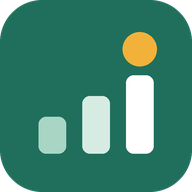
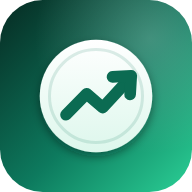
Ícono nuevo de Finanzas y mejoras de la auditoría (v5.1)
- Ícono propio: moneda con flecha de crecimiento sobre degradado verde.
  Tamaños web, accesos directos y, para Android, ícono adaptativo con
  versión monocromática y pantalla de arranque con el ícono (ya no
  depende de @capacitor/assets, que dejaba el logo de Capacitor).
- APK: solo se publica desde main y sin respaldo en la nube del
  celular (allowBackup=false).
- Seguridad: política CSP (solo archivos propios y Apps Script), las
  descripciones y nombres que empiezan con = + @ se guardan como texto
  (no como fórmula) y el CSV exportado se protege igual; por GET el
  Apps Script ya no devuelve datos.
- Accesibilidad: contraste de al menos 4.5:1 en el héroe, botones y
  plásticos; lo de atrás queda inerte con una hoja o el candado abiertos.
- Modo discreto (ojo en la barra) para tapar montos.
- Aviso antes de guardar un monto muy grande o un gasto repetido.
- Búsqueda sin acentos, exportar CSV y respaldo JSON, enlace a tu hoja,
  acceso directo a Metas y guía actualizada.

Claude-Session: https://claude.ai/code/session_01Xj5PdfSkH3YGkcur5ekCGh

diff --git a/app.js b/app.js
@@ -17,6 +17,8 @@ function hoy() { return claveDia(new Date()); }
 function sumarDias(k, n) { const d = new Date(k + 'T12:00:00'); d.setDate(d.getDate() + n); return claveDia(d); }
 function difDias(a, b) { return Math.round((new Date(b + 'T12:00:00') - new Date(a + 'T12:00:00')) / 86400000); }
 function uid() { return Date.now().toString(36) + Math.random().toString(36).slice(2, 7); }
+// "Pagué" y "pague" encuentran lo mismo
+function sinAcentos(t) { return String(t || '').toLowerCase().normalize('NFD').replace(/[\u0300-\u036f]/g, ''); }
 function esc(s) { return String(s == null ? '' : s).replace(/[&<>"']/g, c => ({ '&': '&amp;', '<': '&lt;', '>': '&gt;', '"': '&quot;', "'": '&#39;' }[c])); }
 function jsq(s) { return esc(String(s).replace(/\\/g, '\\\\').replace(/'/g, "\\'")); }
 const r2 = n => Math.round(n * 100) / 100;
@@ -131,7 +133,7 @@ const ARROW_L = '<svg width="22" height="22" viewBox="0 0 24 24" fill="none" str
 const ARROW_R = '<svg width="22" height="22" viewBox="0 0 24 24" fill="none" stroke="currentColor" stroke-width="2.4" stroke-linecap="round" stroke-linejoin="round" aria-hidden="true"><path d="M9 6l6 6-6 6"/></svg>';
 
 /* ===================== Estado ===================== */
-const VERSION_APP = '5.0';
+const VERSION_APP = '5.1';
 let API = LS.get('fin_api', ''), KEY = LS.get('fin_key', ''), DEMO = LS.get('fin_demo', false);
 let BASE = null;      // lo último que mandó la hoja
 let DATA = null;      // BASE + cambios que aún no se suben
@@ -538,6 +540,7 @@ function arrancar() {
   ponerGuardia();
   window.addEventListener('popstate', alIrAtras);
   aplicarTema(LS.get('fin_tema', 'auto'));
+  aplicarDiscreto();
   try { matchMedia('(prefers-color-scheme: dark)').addEventListener('change', () => aplicarTema(LS.get('fin_tema', 'auto'))); } catch (e) {}
   if ('serviceWorker' in navigator && location.protocol === 'https:') {
     const tenia = !!navigator.serviceWorker.controller;
@@ -590,6 +593,7 @@ function ejecutarAccion() {
   if (a === 'gasto') abrirRegistro({});
   else if (a === 'pagar') { const pl = planDeuda(abonoMensual()); abrirRegistro({ tipo: 'Traspaso', aCuenta: pl.orden[0] ? pl.orden[0].c.nombre : null }); }
   else if (a === 'cuadrar') irA('Cuentas');
+  else if (a === 'metas') abrirMeta();
 }
 function mostrarSetup() {
   $('loading').classList.add('hide'); $('view').innerHTML = ''; $('nav').classList.add('hide');
@@ -914,9 +918,9 @@ function vistaMovs() {
     '<div id="lista">' + listaMovs() + '</div>';
 }
 function listaMovs() {
-  const q = BUSCA.trim().toLowerCase(), tipos = FILTROS[FILTRO];
+  const q = sinAcentos(BUSCA.trim()), tipos = FILTROS[FILTRO];
   const lista = DATA.movs.filter(m => (q || m.fecha.slice(0, 7) === MES) && (!tipos || tipos.indexOf(m.tipo) >= 0) &&
-    (!q || [m.desc, m.categoria, m.cuenta, m.aCuenta, m.persona, m.tipo, String(m.monto)].join(' ').toLowerCase().includes(q))).sort(ordenMov);
+    (!q || sinAcentos([m.desc, m.categoria, m.cuenta, m.aCuenta, m.persona, m.tipo, String(m.monto)].join(' ')).includes(q))).sort(ordenMov);
   if (!lista.length) return '<div class="list" style="margin-top:12px"><div class="empty">' + (q ? 'No encontré "' + esc(BUSCA.trim()) + '" en ningún mes.' : FILTRO !== 'Todos' ? 'Nada de este tipo en ' + nombreMes(MES) + '.' : 'Sin movimientos en ' + nombreMes(MES) + '.') + '</div></div>';
   let h = q ? '<div class="muted" style="margin:10px 2px 0">' + lista.length + ' resultado' + (lista.length === 1 ? '' : 's') + ' en todos los meses</div>' : '';
   const dias = {};
@@ -1210,7 +1214,9 @@ const GUIA = [
   ['💳', 'Gasto, Traspaso o Personas', '<b>Gasto</b>: compraste algo (con débito, efectivo o tarjeta).<br><b>Traspaso</b>: pagaste una tarjeta o moviste dinero entre cuentas; no es gasto.<br><b>Personas</b>: le prestaste a alguien, te pagó, o tú debes.'],
   ['🧾', 'Reembolsos y gastos divididos', 'Si pagaste por varios, activa <b>Dividir con otros</b>: tu parte es gasto y lo demás queda como "te deben". Si alguien te devuelve lo de algo, es <b>Ingreso → Es un reembolso</b>.'],
   ['⚖', 'Cuadra cada domingo', 'En Cuentas toca una cuenta → <b>Cuadrar</b> y escribe lo que dice tu banco. Así nunca vuelves a perder la pista como de junio a septiembre.'],
-  ['📅', 'Tu quincena y tu deuda', 'Cuando registres tu quincena, Inicio te dice cuánto va a gastos y cuánto a deudas. En Análisis ves a dónde se va tu dinero mes con mes.']
+  ['📅', 'Tu quincena y tu deuda', 'Cuando registres tu quincena, Inicio te dice cuánto va a gastos y cuánto a deudas. En Análisis ves a dónde se va tu dinero mes con mes.'],
+  ['🏦', 'Tu BBVA Oro y los meses sin intereses', 'Los gastos salen con tu Oro para aprovechar hasta ~50 días de financiamiento. Si compras a meses, activa <b>A meses sin intereses</b>: al estado de cuenta solo entra la mensualidad. En Inicio ves cuánto pagar para no generar intereses.'],
+  ['🎯', 'Metas y proyección', 'Crea una <b>meta</b> para lo que quieres comprar y aparta cada quincena. En <b>Análisis → Categorías</b> ves en qué se fue tu dinero y la proyección te dice cómo vas a terminar el mes. El ojo de arriba oculta los montos.']
 ];
 function abrirGuia() { FORM = { vista: 'guia', paso: 0 }; abrirHoja(); pintarHoja(); enfocarTitulo(); }
 function hojaGuia() {
@@ -1228,11 +1234,14 @@ function abrirHoja() {
   if (!yaAbierta) {
     history.pushState({ hoja: true }, '');
     s.classList.remove('hide'); sc.classList.remove('hide');
+    fondoInerte(true);
     requestAnimationFrame(() => { s.classList.add('show'); sc.classList.add('show'); });
     document.body.style.overflow = 'hidden';
   }
   s.scrollTop = 0;
 }
+// Con una hoja o el candado abiertos, el lector de pantalla y el tabulador no se van a lo de atrás
+function fondoInerte(si) { ['.appbar', 'main', '#nav'].forEach(q => { const e = document.querySelector(q); if (e) e.inert = si; }); }
 // Cerrar desde un botón: regresa en el historial para que el botón Atrás de Android no saque de la app
 function cerrarHoja() { if (history.state && history.state.hoja) history.back(); else cerrarHojaReal(); }
 function cerrarHojaReal() {
@@ -1242,6 +1251,7 @@ function cerrarHojaReal() {
   const s = $('sheet'), sc = $('scrim');
   s.classList.remove('show'); sc.classList.remove('show'); s.style.transform = '';
   document.body.style.overflow = '';
+  fondoInerte(false);
   setTimeout(() => { if (!FORM) { s.classList.add('hide'); sc.classList.add('hide'); s.innerHTML = ''; } }, 260);
 }
 function pintarHoja() {
@@ -1528,7 +1538,13 @@ function guardarMovForm() {
     : (t === 'Gasto' || t === 'Ingreso' || t === 'Reembolso') && !FORM.categoria ? 'Elige una categoría.'
     : usaMSI() && !FORM.meses ? 'Elige a cuántos meses sin intereses.' : '';
   if (falta) { FORM.err = falta; pintarHoja(); vibrar([20, 40, 20]); return; }
-  const nuevo = !FORM.id;
+  const nuevo = !FORM.id, firma = t + '|' + monto + '|' + FORM.cuenta + '|' + FORM.fecha;
+  if (FORM.confirmado !== firma) {
+    const igual = nuevo && DATA.movs.find(m => m.tipo === t && m.monto === monto && m.cuenta === FORM.cuenta && m.fecha === FORM.fecha && Date.now() - (m.registrado || 0) < 15 * 60000);
+    const aviso = monto >= 50000 && t !== 'Ajuste' ? '¿Seguro que fueron ' + money(monto) + '? Revisa que no sobre un cero. Toca Guardar otra vez para confirmar.'
+      : igual ? 'Hace ' + Math.max(1, Math.round((Date.now() - igual.registrado) / 60000)) + ' min registraste lo mismo (' + money(monto) + ' con ' + FORM.cuenta + '). Si es otro, toca Guardar otra vez.' : '';
+    if (aviso) { FORM.confirmado = firma; FORM.err = aviso; pintarHoja(); vibrar([20, 40, 20]); return; }
+  }
   if (nuevaPersona) encolar('guardarPersona', [{ nombre: nuevaPersona, saldoCorte: 0, fechaCorte: minCorte() || hoy(), nota: '' }], true);
   if (t === 'Gasto' && nuevo && FORM.dividir && !usaMSI()) {
     const pr = partesDividir(monto);
@@ -1979,10 +1995,10 @@ let OCULTA_DESDE = 0;
 const bloqueoOn = () => NATIVO && LS.get('fin_huella', false);
 async function pedirHuella() {
   if (!bloqueoOn()) { $('lock').classList.add('hide'); return; }
-  $('lock').classList.remove('hide');
+  $('lock').classList.remove('hide'); fondoInerte(true);
   try {
     await window.Capacitor.nativePromise('NativeBiometric', 'verifyIdentity', { reason: 'Abrir Finanzas', title: 'Finanzas', subtitle: 'Usa tu huella para entrar', negativeButtonText: 'Cancelar', maxAttempts: 5 });
-    $('lock').classList.add('hide'); vibrar(12);
+    $('lock').classList.add('hide'); fondoInerte(!!FORM); vibrar(12);
   } catch (e) { /* se queda bloqueada; el botón vuelve a pedirla */ }
 }
 async function alternarHuella() {
@@ -1996,6 +2012,34 @@ async function alternarHuella() {
   } catch (e) { toast('No se activó el bloqueo'); }
   if (ok) { LS.set('fin_huella', true); toast('Listo: Finanzas pedirá tu huella al abrir'); }
   pintarHoja();
+}
+
+/* ---- Modo discreto: tapa los montos para usar la app en público o enseñar la pantalla ---- */
+function aplicarDiscreto() {
+  const on = LS.get('fin_discreto', false), b = $('ojo');
+  document.body.classList.toggle('discreto', on);
+  if (b) { b.setAttribute('aria-pressed', on); b.setAttribute('aria-label', on ? 'Mostrar montos' : 'Ocultar montos'); }
+}
+function alternarDiscreto() { LS.set('fin_discreto', !LS.get('fin_discreto', false)); aplicarDiscreto(); vibrar(8); toast(LS.get('fin_discreto', false) ? 'Montos ocultos' : 'Montos visibles'); }
+
+/* ---- Respaldo: todo vive en tu hoja de Google; además puedes bajar un CSV o una copia completa ---- */
+// Una celda que empieza con = + - @ se volvería fórmula al abrir el CSV en Excel o Sheets: se le antepone un apóstrofo
+const celdaCSV = v => { let t = v == null ? '' : String(v); if (/^[=+\-@]/.test(t) && !/^-?\d+(\.\d+)?$/.test(t)) t = "'" + t; return /[",\n;]/.test(t) ? '"' + t.replace(/"/g, '""') + '"' : t; };
+function descargar(nombre, tipo, contenido) {
+  const url = URL.createObjectURL(new Blob([contenido], { type: tipo })), a = document.createElement('a');
+  a.href = url; a.download = nombre; document.body.appendChild(a); a.click(); a.remove();
+  setTimeout(() => URL.revokeObjectURL(url), 4000);
+}
+function exportarCSV() {
+  const cols = ['fecha', 'tipo', 'monto', 'cuenta', 'aCuenta', 'categoria', 'persona', 'desc', 'meses'];
+  const filas = DATA.movs.slice().sort((a, b) => (a.fecha < b.fecha ? -1 : 1)).map(m => cols.map(k => celdaCSV(m[k])).join(','));
+  descargar('finanzas-movimientos-' + hoy() + '.csv', 'text/csv;charset=utf-8', '\ufeff' + ['Fecha,Tipo,Monto,Cuenta,A cuenta,Categoría,Persona,Descripción,Meses'].concat(filas).join('\n'));
+  toast('Descargué ' + DATA.movs.length + ' movimientos');
+}
+function exportarRespaldo() {
+  const copia = Object.assign({}, DATA, { exportado: new Date().toISOString(), app: VERSION_APP });
+  descargar('finanzas-respaldo-' + hoy() + '.json', 'application/json', JSON.stringify(copia, null, 1));
+  toast('Respaldo descargado');
 }
 
 /* ---- Ajustes ---- */
@@ -2030,6 +2074,9 @@ function hojaAjustes() {
       '<div class="actions"><a class="btn sm" href="' + APK_URL + '" target="_blank" rel="noopener">Descargar APK</a>' + (!DEMO ? '<button class="btn sm ghost" onclick="copiarLinkApp()">Copiar link para la app</button>' : '') + '</div>' +
       '<p class="hint">Abre la app, pega el link en "URL de Apps Script" y listo: no tienes que escribir la clave.</p></div>';
   }
+  h += '<div class="fl">Tus datos</div><div class="card flat"><div class="muted" style="margin-bottom:10px">Todo se guarda en tu hoja de Google; lo del celular es una copia para que funcione sin señal.</div><div class="actions">' +
+    (BASE && BASE.url ? '<a class="btn sm" href="' + esc(BASE.url) + '" target="_blank" rel="noopener">Abrir mi hoja</a>' : '') +
+    (!NATIVO ? '<button class="btn sm ghost" onclick="exportarCSV()">Bajar CSV</button><button class="btn sm ghost" onclick="exportarRespaldo()">Bajar respaldo</button>' : '') + '</div></div>';
   const ver = BASE && BASE.version ? BASE.version : 1;
   h += '<div class="fl">Conexión</div><div class="card flat"><div class="muted">' + (DEMO ? 'Estás en modo ejemplo: nada se guarda en tu hoja.' :
     'Conectada a ' + esc(BASE && BASE.hoja ? BASE.hoja : 'tu hoja de Google') + '. Última actualización: ' + haceCuanto(LS.get('fin_ultima', 0)) + '.') + '</div>' +

diff --git a/index.html b/index.html
@@ -9,9 +9,11 @@
 <meta name="apple-mobile-web-app-status-bar-style" content="black-translucent">
 <meta name="apple-mobile-web-app-title" content="Finanzas">
 <meta name="referrer" content="no-referrer">
+<meta http-equiv="Content-Security-Policy" content="default-src 'self'; script-src 'self' 'unsafe-inline'; style-src 'self' 'unsafe-inline'; img-src 'self' data: blob:; font-src 'self'; connect-src 'self' https://script.google.com https://script.googleusercontent.com; manifest-src 'self'; worker-src 'self'; object-src 'none'; base-uri 'none'; form-action 'none'; frame-src 'none'">
 <title>Finanzas</title>
 <link rel="manifest" href="manifest.webmanifest">
-<link rel="icon" href="icon-192.png">
+<link rel="icon" href="favicon-32.png" sizes="32x32">
+<link rel="icon" href="icon-192.png" sizes="192x192">
 <link rel="apple-touch-icon" href="apple-touch-icon.png">
 <link rel="preload" href="bricolage.woff2" as="font" type="font/woff2" crossorigin>
 <link rel="preload" href="fonts/inter.woff2" as="font" type="font/woff2" crossorigin>
@@ -23,9 +25,9 @@
   /* Tema claro */
   :root {
     --bg: #F1F5F3; --card: #FFFFFF; --card2: #EBF1EE; --ink: #0E1A16; --muted: #56665F; --line: #DCE5E1;
-    --pri: #0D7A5E; --pri-2: #13A57E; --pri-weak: #DAF2E8; --on-pri: #FFFFFF;
+    --pri: #0D7A5E; --pri-2: #0E8462; --pri-weak: #DAF2E8; --on-pri: #FFFFFF;
     --debt: #CF3F2A; --debt-weak: #FCE7E2; --sun: #92600A; --sun-bar: #E9A21F; --sun-weak: #FCF1D8; --ok: #11804F;
-    --hero: linear-gradient(145deg, #093F33 0%, #0D7A5E 48%, #1BB384 100%); --glow: rgba(13, 122, 94, .30);
+    --hero: linear-gradient(145deg, #093F33 0%, #0D7A5E 55%, #0E8462 100%); --glow: rgba(13, 122, 94, .30);
     --nav-bg: rgba(255, 255, 255, .86); --sheet: #F6F9F7;
     --shadow: 0 1px 2px rgba(15, 45, 35, .05), 0 8px 24px rgba(15, 45, 35, .06);
     --nav-h: 66px; --disp: "Bricolage", Inter, -apple-system, "Segoe UI", Roboto, sans-serif; --txt: Inter, -apple-system, "Segoe UI", Roboto, Arial, sans-serif;
@@ -40,7 +42,7 @@
       --bg: #0A0F0D; --card: #121916; --card2: #19221F; --ink: #EAF3EF; --muted: #93A49D; --line: #22302A;
       --pri: #3DDC97; --pri-2: #86F2C4; --pri-weak: #10302A; --on-pri: #04120C;
       --debt: #FF7A66; --debt-weak: #3A1A14; --sun: #FFC857; --sun-bar: #F4BF55; --sun-weak: #33280F; --ok: #4BE39B;
-      --hero: linear-gradient(145deg, #0A332A 0%, #0F6A51 52%, #1DA67B 100%); --glow: rgba(61, 220, 151, .16);
+      --hero: linear-gradient(145deg, #0A332A 0%, #0F6A51 55%, #0E8462 100%); --glow: rgba(61, 220, 151, .16);
       --nav-bg: rgba(18, 25, 22, .84); --sheet: #0F1513;
       --shadow: 0 1px 0 rgba(255, 255, 255, .03) inset, 0 10px 28px rgba(0, 0, 0, .35);
       --s1: #3987e5; --s2: #d95926; --s3: #199e70; --s4: #c98500; --s5: #d55181; --s6: #008300; --s7: #9085e9; --s0: #5E6A65;
@@ -51,7 +53,7 @@
     --bg: #0A0F0D; --card: #121916; --card2: #19221F; --ink: #EAF3EF; --muted: #93A49D; --line: #22302A;
     --pri: #3DDC97; --pri-2: #86F2C4; --pri-weak: #10302A; --on-pri: #04120C;
     --debt: #FF7A66; --debt-weak: #3A1A14; --sun: #FFC857; --sun-bar: #F4BF55; --sun-weak: #33280F; --ok: #4BE39B;
-    --hero: linear-gradient(145deg, #0A332A 0%, #0F6A51 52%, #1DA67B 100%); --glow: rgba(61, 220, 151, .16);
+    --hero: linear-gradient(145deg, #0A332A 0%, #0F6A51 55%, #0E8462 100%); --glow: rgba(61, 220, 151, .16);
     --nav-bg: rgba(18, 25, 22, .84); --sheet: #0F1513;
     --shadow: 0 1px 0 rgba(255, 255, 255, .03) inset, 0 10px 28px rgba(0, 0, 0, .35);
     --s1: #3987e5; --s2: #d95926; --s3: #199e70; --s4: #c98500; --s5: #d55181; --s6: #008300; --s7: #9085e9; --s0: #5E6A65;
@@ -83,8 +85,8 @@
 
   /* Héroe del inicio: tarjeta con degradado */
   .hero { position: relative; overflow: hidden; margin: 6px 0 14px; padding: 16px 18px 16px; border-radius: 26px; background: var(--hero); color: #fff; box-shadow: 0 16px 36px var(--glow); isolation: isolate; }
-  .hero::before { content: ""; position: absolute; z-index: -1; width: 260px; height: 260px; right: -90px; top: -120px; border-radius: 50%; background: radial-gradient(closest-side, rgba(255, 255, 255, .22), transparent); }
-  .hero::after { content: ""; position: absolute; z-index: -1; width: 200px; height: 200px; left: -80px; bottom: -120px; border-radius: 50%; background: radial-gradient(closest-side, rgba(134, 242, 196, .28), transparent); }
+  .hero::before { content: ""; position: absolute; z-index: -1; width: 260px; height: 260px; right: -90px; top: -120px; border-radius: 50%; background: radial-gradient(closest-side, rgba(255, 255, 255, .12), transparent); }
+  .hero::after { content: ""; position: absolute; z-index: -1; width: 200px; height: 200px; left: -80px; bottom: -120px; border-radius: 50%; background: radial-gradient(closest-side, rgba(134, 242, 196, .14), transparent); }
   .hero .lbl { color: rgba(255, 255, 255, .82); font-size: 14.5px; }
   .hero .big { font: 780 46px/1.05 var(--disp); letter-spacing: -.04em; margin: 4px 0 4px; font-variant-numeric: tabular-nums; color: #fff; }
   .hero .big.neg { color: #FFD1C7; }
@@ -219,14 +221,14 @@
   .plas.oro .plas-tag { background: rgba(0, 0, 0, .14); }
   .plas.oro .plas-chip { background: linear-gradient(135deg, #FFF3C8, #D8B25A); }
   .bbva { background: linear-gradient(135deg, #031330 0%, #072146 45%, #1464A5 100%); }
-  .revolut { background: linear-gradient(135deg, #17181C 0%, #3A3D46 60%, #8E929C 100%); }
-  .mp { background: linear-gradient(135deg, #005C97 0%, #009EE3 60%, #5DD3F6 100%); }
+  .revolut { background: linear-gradient(135deg, #17181C 0%, #3A3D46 60%, #5A5E68 100%); }
+  .mp { background: linear-gradient(135deg, #004A7C 0%, #0068A8 55%, #0877B5 100%); }
   .nu { background: linear-gradient(135deg, #3E0D74 0%, #820AD1 100%); }
-  .deb { background: linear-gradient(135deg, #0A4F3F 0%, #14A37C 100%); }
-  .aho { background: linear-gradient(135deg, #2E2A7A 0%, #6366F1 100%); }
-  .efe { background: linear-gradient(135deg, #14532D 0%, #3FBF6C 100%); }
+  .deb { background: linear-gradient(135deg, #0A4F3F 0%, #0F8463 100%); }
+  .aho { background: linear-gradient(135deg, #2E2A7A 0%, #5558E3 100%); }
+  .efe { background: linear-gradient(135deg, #14532D 0%, #1E8449 100%); }
   .cred { background: linear-gradient(135deg, #1F2937 0%, #4B5563 100%); }
-  .pres { background: linear-gradient(135deg, #6B2610 0%, #E05A14 100%); }
+  .pres { background: linear-gradient(135deg, #6B2610 0%, #C2410C 100%); }
 
   /* Financiamiento de la tarjeta para gastos */
   .fin-card .tx { display: flex; flex-direction: column; }
@@ -361,6 +363,12 @@
   .dots { display: flex; gap: 6px; justify-content: center; margin-top: 14px; }
   .dots i { width: 8px; height: 8px; border-radius: 9px; background: var(--line); }
   .dots i.on { background: var(--pri); width: 22px; }
+  /* Modo discreto: los montos se tapan hasta que lo apagues */
+  .discreto .amt, .discreto .big, .discreto .plas-amt, .discreto .mv .m, .discreto .num, .discreto .dona-t, .discreto .hero .of, .discreto .legend,
+  .discreto .fixed-line b, .discreto .qrow b, .discreto .note, .discreto .plas-ft, .discreto .stat .sub, .discreto .hint b, .discreto .day .num { filter: blur(9px); transition: filter .15s; }
+  .discreto .sheet .amount input { filter: none; }
+  .iconbtn[aria-pressed=true] { background: var(--pri-weak); color: var(--pri); border-color: transparent; }
+
   /* v5: límite de crédito, metas, categorías y bloqueo */
   .plas-uso { display: block; height: 5px; border-radius: 9px; background: rgba(255, 255, 255, .25); overflow: hidden; margin-top: 8px; }
   .plas-uso i { display: block; height: 100%; background: currentColor; border-radius: 9px; }
@@ -400,6 +408,7 @@
 </head>
 <body>
 <header class="appbar"><div class="in"><h1 id="titulo">Finanzas</h1><button id="sync" class="sync" onclick="tocarSync()" aria-live="polite">…</button>
+  <button id="ojo" class="iconbtn" onclick="alternarDiscreto()" aria-label="Ocultar montos" aria-pressed="false"><svg viewBox="0 0 24 24" fill="none" stroke="currentColor" stroke-width="2" stroke-linecap="round" stroke-linejoin="round" aria-hidden="true"><path d="M2 12s3.6-7 10-7 10 7 10 7-3.6 7-10 7S2 12 2 12z"/><circle cx="12" cy="12" r="3"/></svg></button>
   <button class="iconbtn" onclick="abrirAjustes()" aria-label="Ajustes"><svg viewBox="0 0 24 24" fill="none" stroke="currentColor" stroke-width="2" stroke-linecap="round" stroke-linejoin="round" aria-hidden="true"><path d="M4 6h10M18 6h2M4 12h4M12 12h8M4 18h12"/><circle cx="16" cy="6" r="2"/><circle cx="10" cy="12" r="2"/><circle cx="18" cy="18" r="2"/></svg></button></div></header>
 <main class="wrap">
   <div id="loading" class="center"><div>Cargando tus cuentas…</div></div>

diff --git a/sw.js b/sw.js
@@ -1,9 +1,9 @@
 // Guarda la app en el celular para que abra rápido y funcione sin señal.
 // Cuando subas una versión nueva de la app, cambia el número de VERSION.
-const VERSION = 'fin-v5.0';
+const VERSION = 'fin-v5.1';
 const ARCHIVOS = [
   './', './index.html', './app.js', './manifest.webmanifest', './bricolage.woff2', './fonts/inter.woff2',
-  './icon-192.png', './icon-512.png', './icon-maskable-512.png', './apple-touch-icon.png', './sc-gasto.png', './sc-pagar.png', './sc-cuadrar.png'
+  './icon-192.png', './favicon-32.png', './icon-512.png', './icon-maskable-512.png', './apple-touch-icon.png', './sc-gasto.png', './sc-pagar.png', './sc-cuadrar.png', './sc-metas.png'
 ];
 
 self.addEventListener('install', e => {
